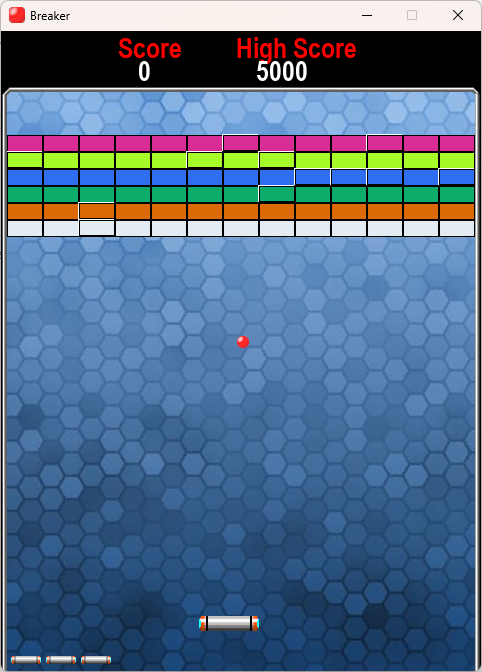
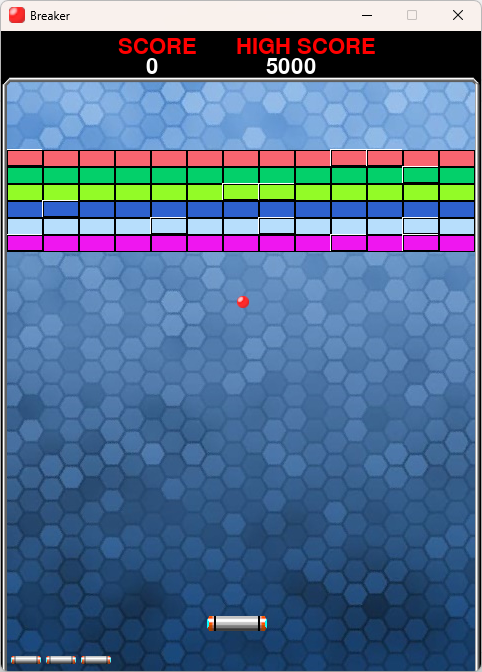
layout

diff --git a/main.py b/main.py
@@ -4,7 +4,7 @@ import random
 FPS = 60
 WIDTH = 480
 HEIGHT = 640
-UI_HEIGHT = 55
+UI_HEIGHT = 45
 
 pygame.init()
 screen: pygame.surface.Surface = pygame.display.set_mode((WIDTH, HEIGHT))
@@ -20,7 +20,7 @@ pygame.display.set_icon(pygame.image.load('assets/image/ball.ico'))
 clock = pygame.time.Clock()
 running = True
 
-fg_font: pygame.font.Font = pygame.font.SysFont("arial", 28, bold=True)
+fg_font: pygame.font.Font = pygame.font.SysFont(pygame.font.match_font("cascadiamonoregular"), 32)
 fg_font_color1 = (255, 0, 0)
 fg_font_color2 = (255, 255, 255)
 
@@ -71,7 +71,7 @@ def create_bricks() -> list:
     colors = gen_colors(6)
     level = []
     x = 7
-    y = UI_HEIGHT + 50
+    y = UI_HEIGHT + 75
     for i in range(6): # y
         brick_color = colors[i]
         for _ in range(13): # x
@@ -100,15 +100,15 @@ while running:
 
     pygame.draw.rect(screen, (0, 0, 0), pygame.Rect(0, 0, WIDTH, UI_HEIGHT)) # UI
 
-    lives_text = fg_font.render("Score", True, fg_font_color1)
-    screen.blit(lives_text, (WIDTH - 3 * WIDTH / 4 - len("Score") / 2, 0))
+    lives_text = fg_font.render("SCORE", True, fg_font_color1)
+    screen.blit(lives_text, (WIDTH - 3 * WIDTH / 4 - len("SCORE") / 2, 5))
     lives_text = fg_font.render(str(score), True, fg_font_color2)
-    screen.blit(lives_text, (WIDTH - 3 * WIDTH / 4 - len("Score") / 2 + 20, 23))
+    screen.blit(lives_text, (WIDTH - 3 * WIDTH / 4 + 25, 25))
     
-    score_text = fg_font.render("High Score", True, fg_font_color1)
-    screen.blit(score_text, (WIDTH - 2 * WIDTH / 4 - len("High Score") / 2, 0))
+    score_text = fg_font.render("HIGH SCORE", True, fg_font_color1)
+    screen.blit(score_text, (WIDTH - 2 * WIDTH / 4 - len("HIGH SCORE") / 2, 5))
     score_number_text = fg_font.render(str(highscore), True, fg_font_color2)
-    screen.blit(score_number_text, (WIDTH - 2 * WIDTH / 4 - len("High Score") / 2 + 20, 23))
+    screen.blit(score_number_text, (WIDTH - 2 * WIDTH / 4 + 25, 25))
     
     # --- BRICK COLLIDE ---
     for block in bricks:
